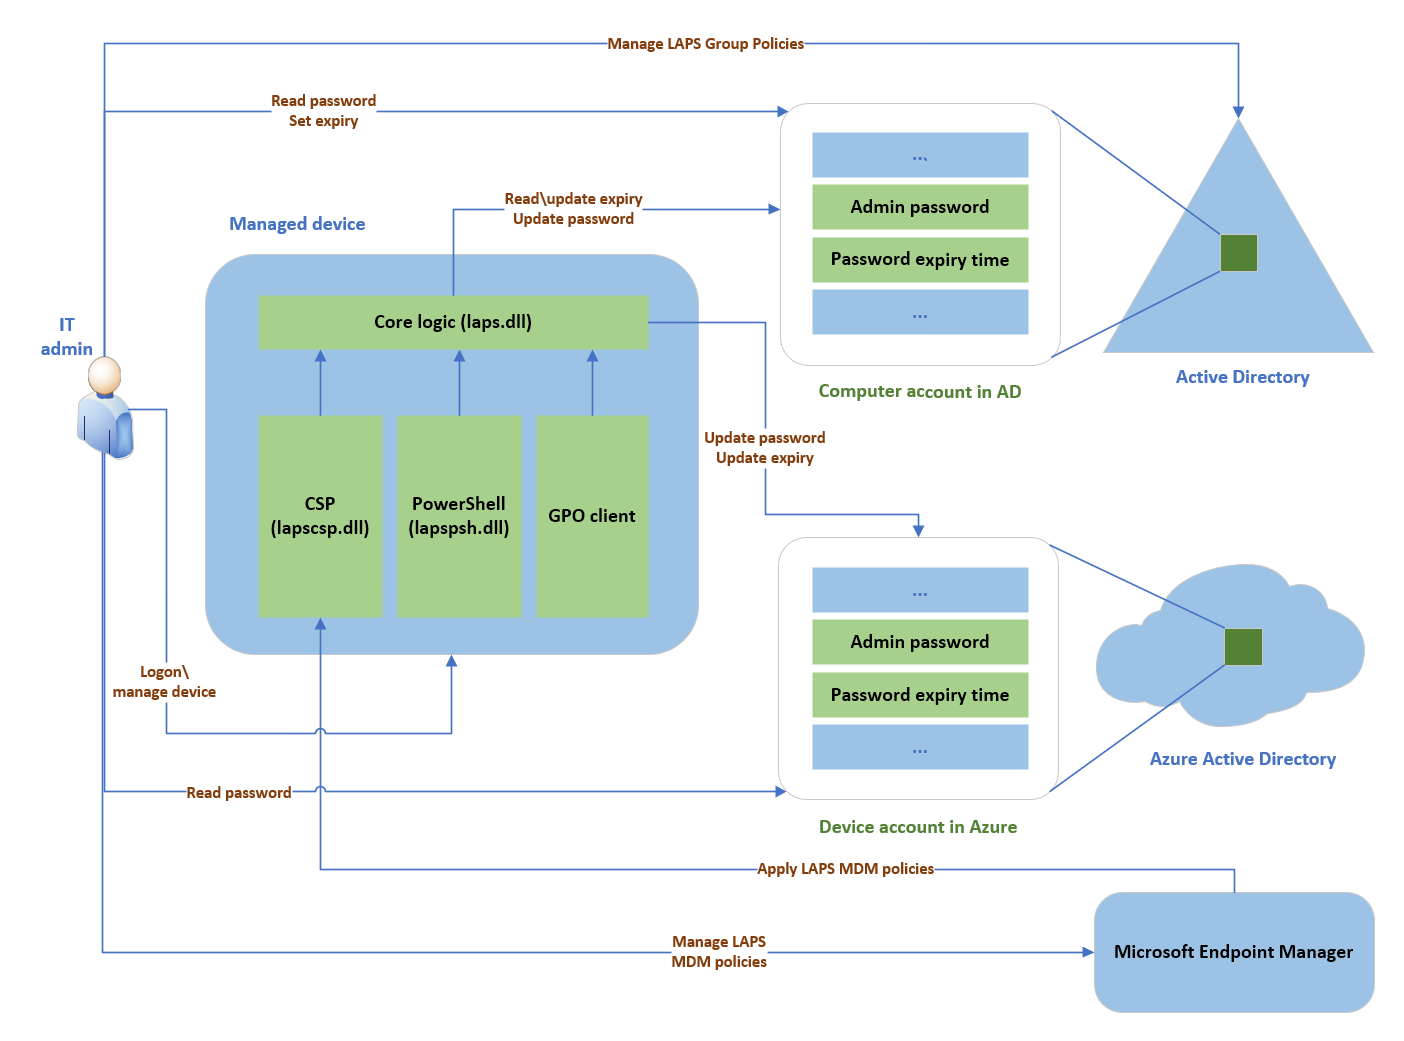
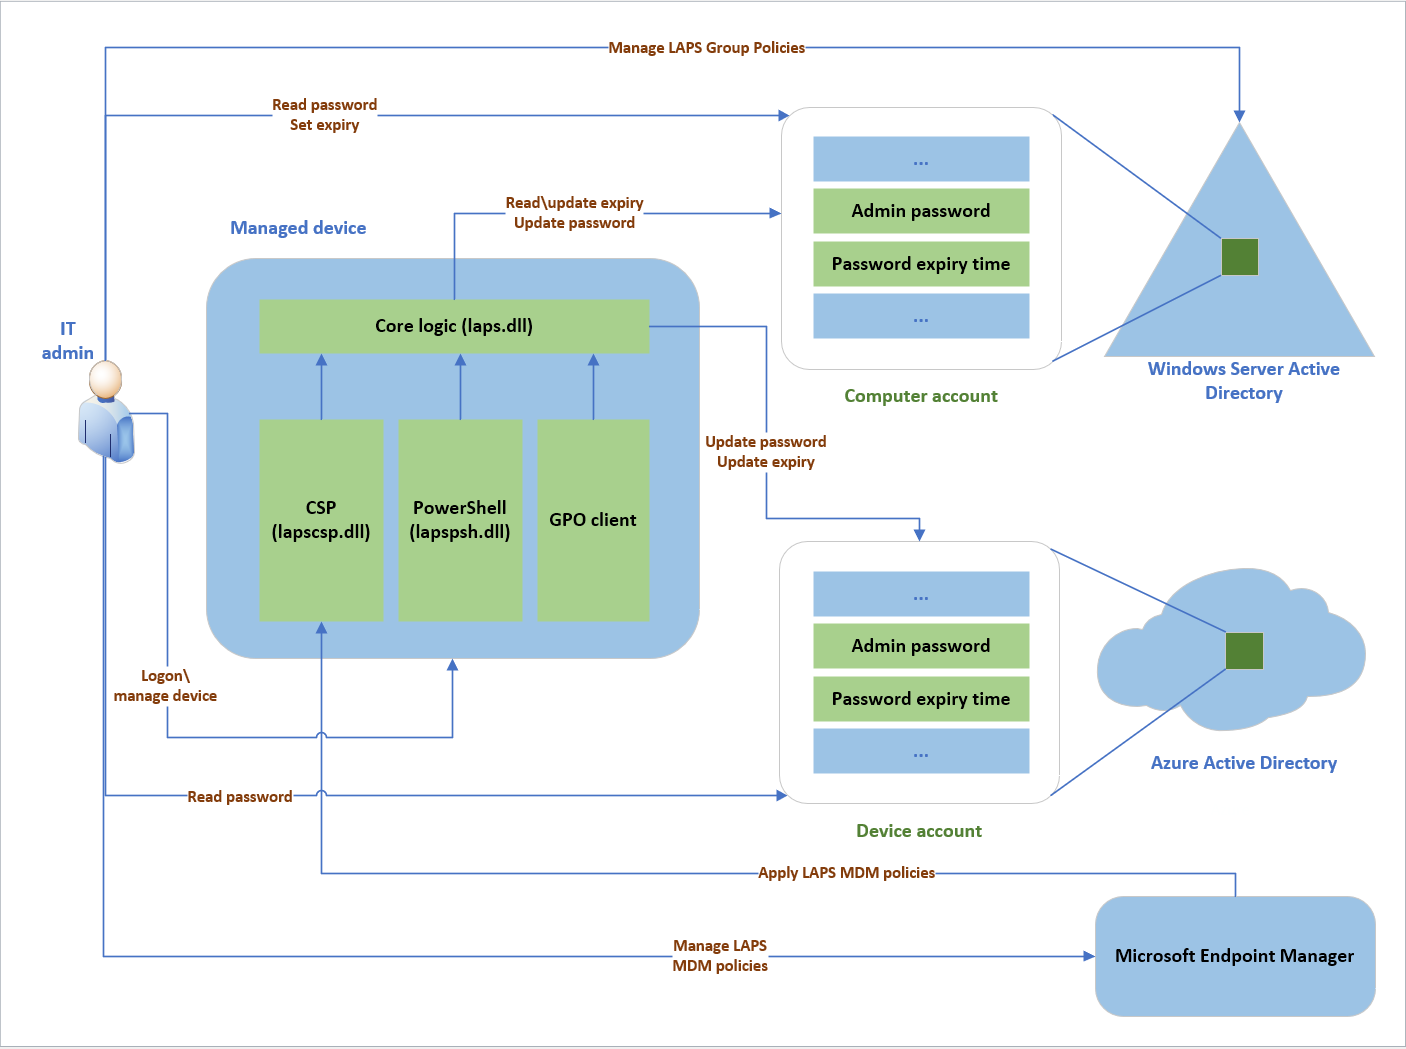
More fixes for editor feedback.

diff --git a/WindowsServerDocs/identity/laps/laps-concepts.md b/WindowsServerDocs/identity/laps/laps-concepts.md
@@ -21,15 +21,15 @@ This article provides information about the basic design and security concepts t
 
 The above picture has many moving parts - let's break it down piece by piece.
 
-<ins>IT admin</ins>: this entity represents collectively the various IT admin roles that may be involved in a Windows LAPS deployment. The IT admin roles are involved with policy configuration, expiration or retrieval of stored passwords, and interacting with managed devices.
+IT admin: this entity represents collectively the various IT admin roles that may be involved in a Windows LAPS deployment. The IT admin roles are involved with policy configuration, expiration or retrieval of stored passwords, and interacting with managed devices.
 
-<ins>Managed device:</ins> this entity is the Azure Active Directory-joined or Windows Server Active Directory-joined device on which we want to manage a local administrator account. The feature is composed of a few key binaries: laps.dll (core logic), lapscsp.dll (Configuration Service Provider logic), and lapspsh.dll (PowerShell cmdlet logic). Windows LAPS may also be configured using Group Policy and will respond to GPO change notifications. The managed device may also be a Windows Server Active Directory domain controller, which can be configured to back up DSRM account passwords.
+Managed device: this entity is the Azure Active Directory-joined or Windows Server Active Directory-joined device on which we want to manage a local administrator account. The feature is composed of a few key binaries: laps.dll (core logic), lapscsp.dll (Configuration Service Provider logic), and lapspsh.dll (PowerShell cmdlet logic). Windows LAPS may also be configured using Group Policy and will respond to GPO change notifications. The managed device may also be a Windows Server Active Directory domain controller, which can be configured to back up DSRM account passwords.
 
-<ins>Windows Server Active Directory:</ins> this entity is your on-premises Windows Server Active Directory deployment.
+Windows Server Active Directory: this entity is your on-premises Windows Server Active Directory deployment.
 
-<ins>Azure Active Directory</ins>: this entity is Azure Active Directory running in the cloud.
+Azure Active Directory: this entity is Azure Active Directory running in the cloud.
 
-<ins>Microsoft Endpoint Manager</ins>: this entity is the preferred Microsoft device policy management solution, also running in the cloud.
+Microsoft Endpoint Manager: this entity is the preferred Microsoft device policy management solution, also running in the cloud.
 
 ## Basic Windows LAPS scenario flow
 
